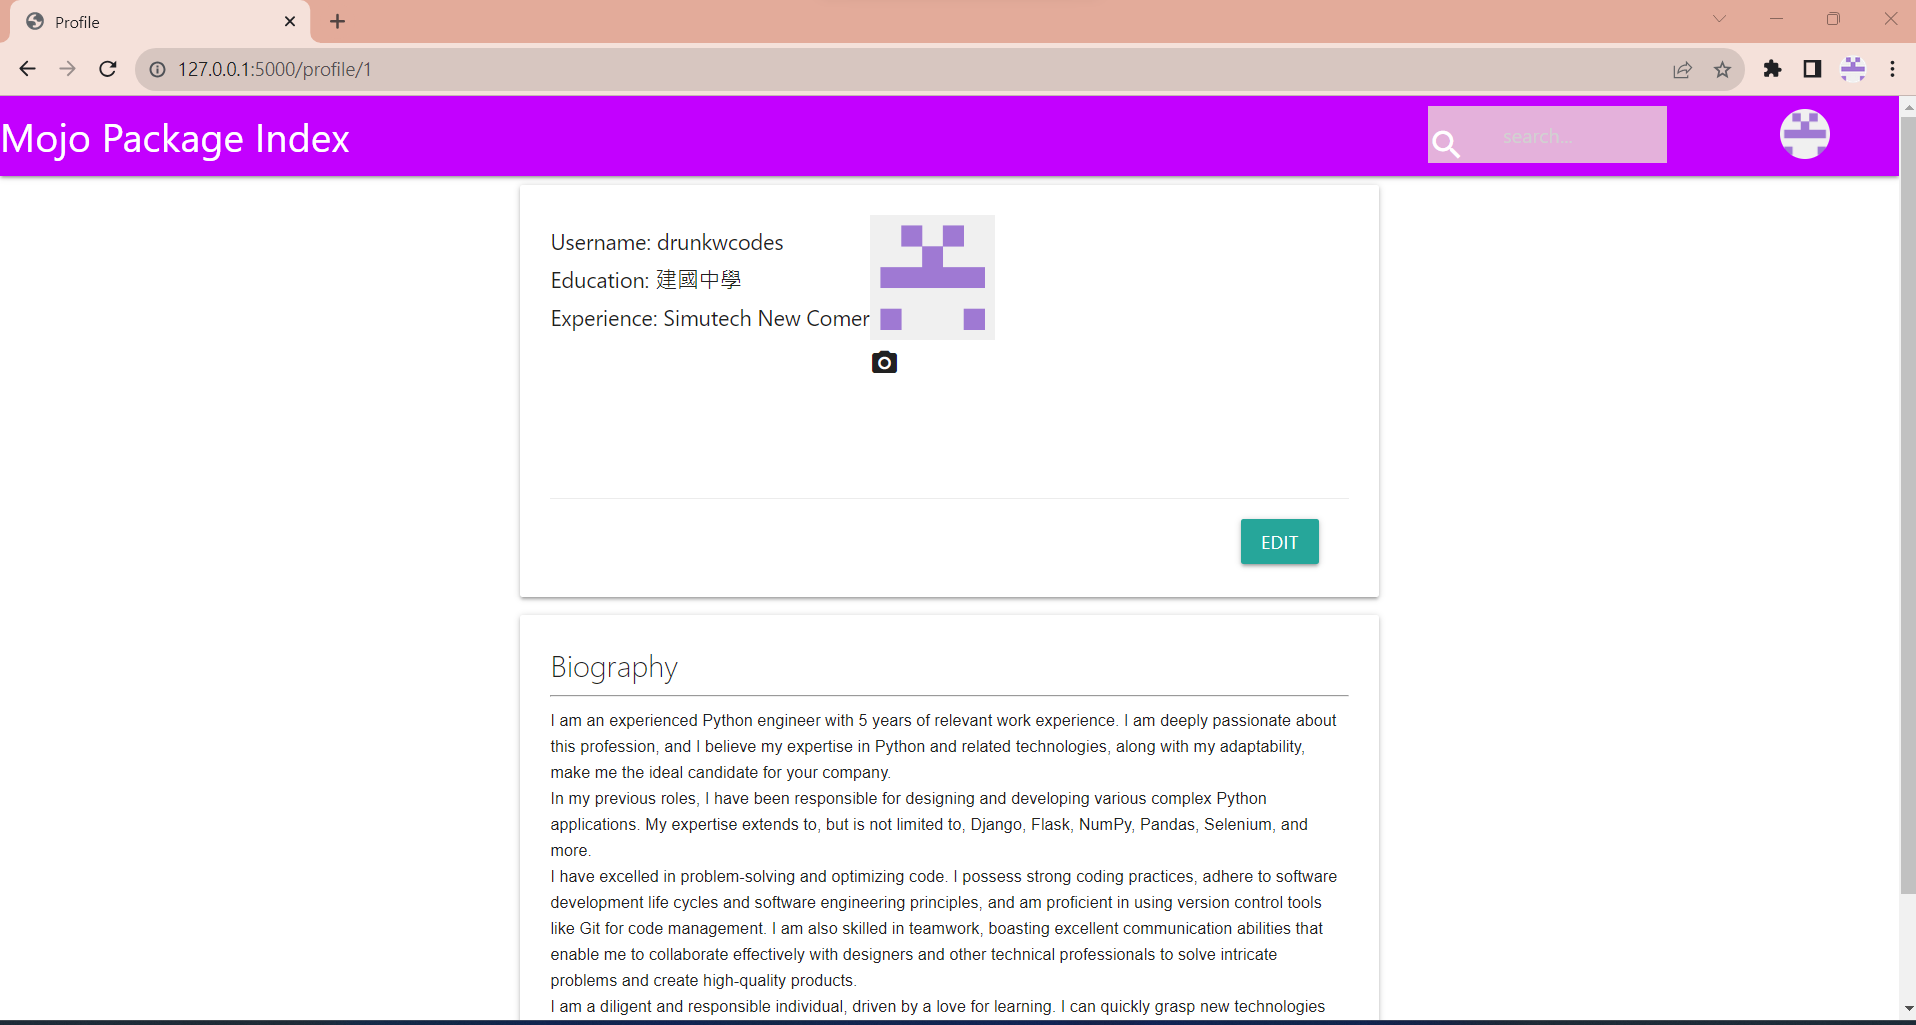
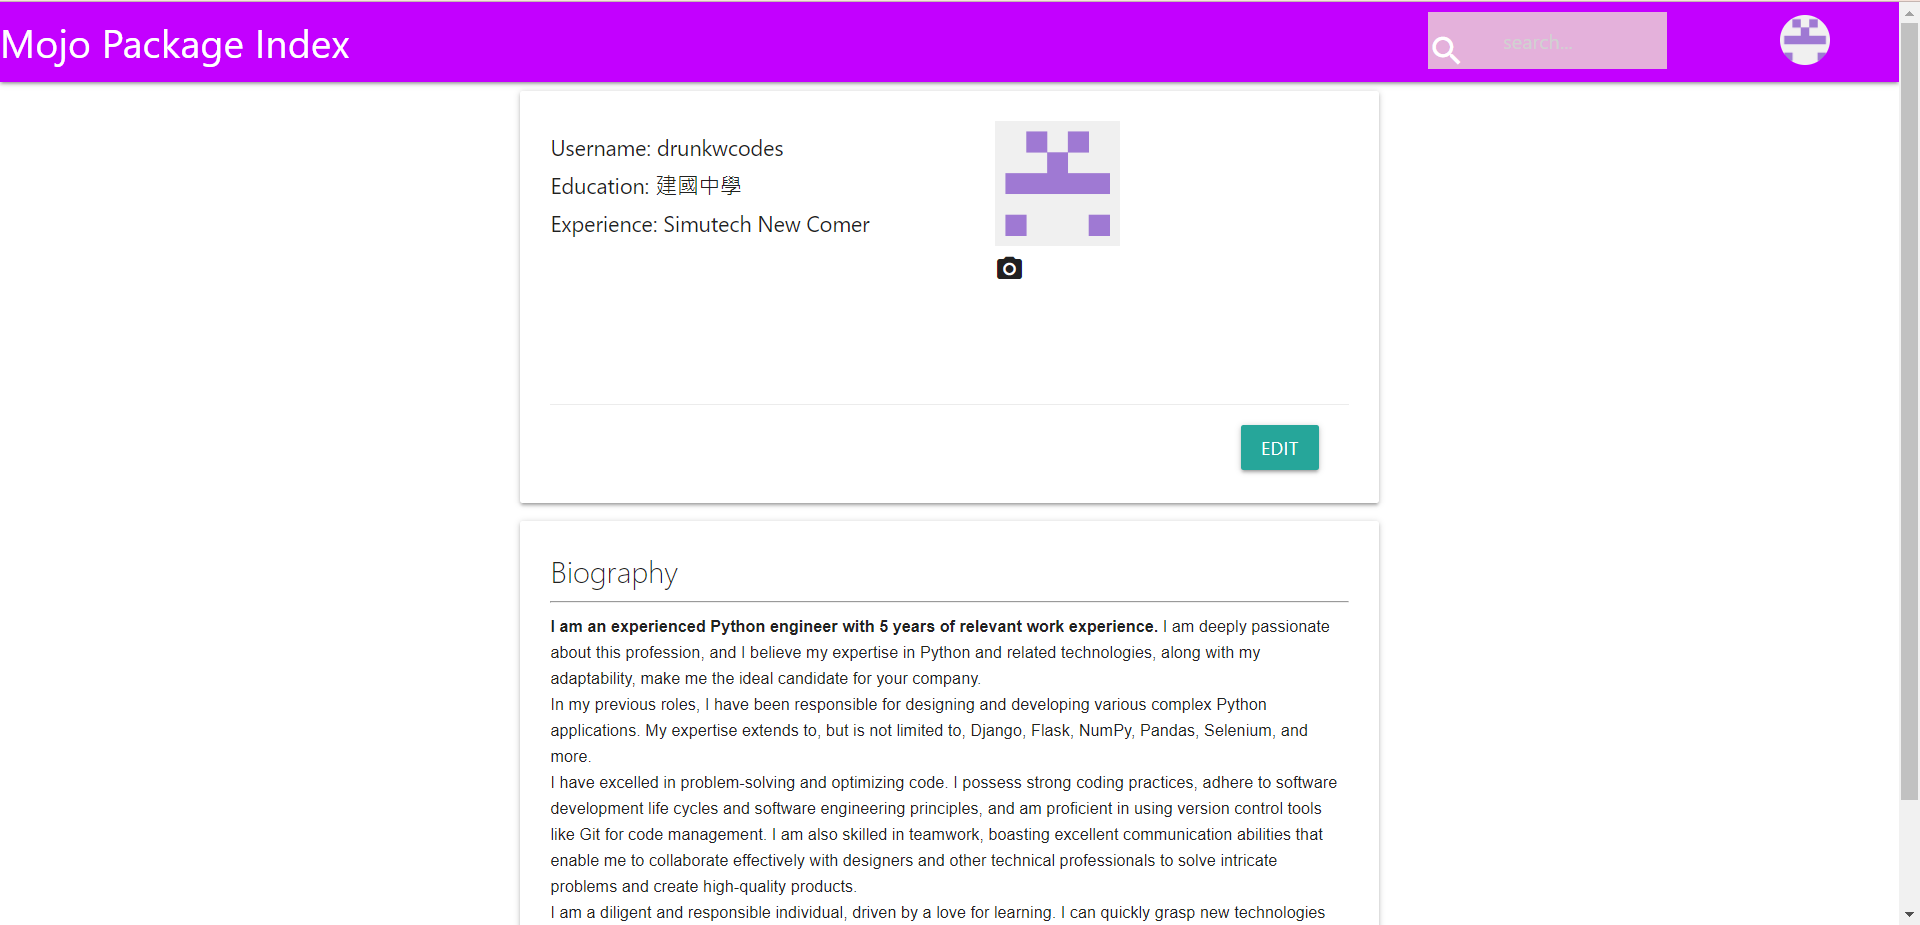
Fix profile pic position

Changed region(s): [[0.0, 0.0, 1.0, 0.8778], [0.0, 0.4541, 1.0, 1.0]]

diff --git a/src/mojopi/templates/profile.html b/src/mojopi/templates/profile.html
@@ -31,7 +31,7 @@
                 </div>
                             
                 <div class="row">
-                  <div class="col s12 m2">
+                  <div class="col s12 m2 right">
                         <div class="circle">
                           <img class="profile-pic" src="{{ profile_pic_url }}">
                         </div>

diff --git a/TODO.md b/TODO.md
@@ -1,3 +1,2 @@
 UI: search bar not centered.  
-UI: search bar not placed in navbar, which will be error-prone.  
-UI: Profile picture is not in the "right" position.  
+
